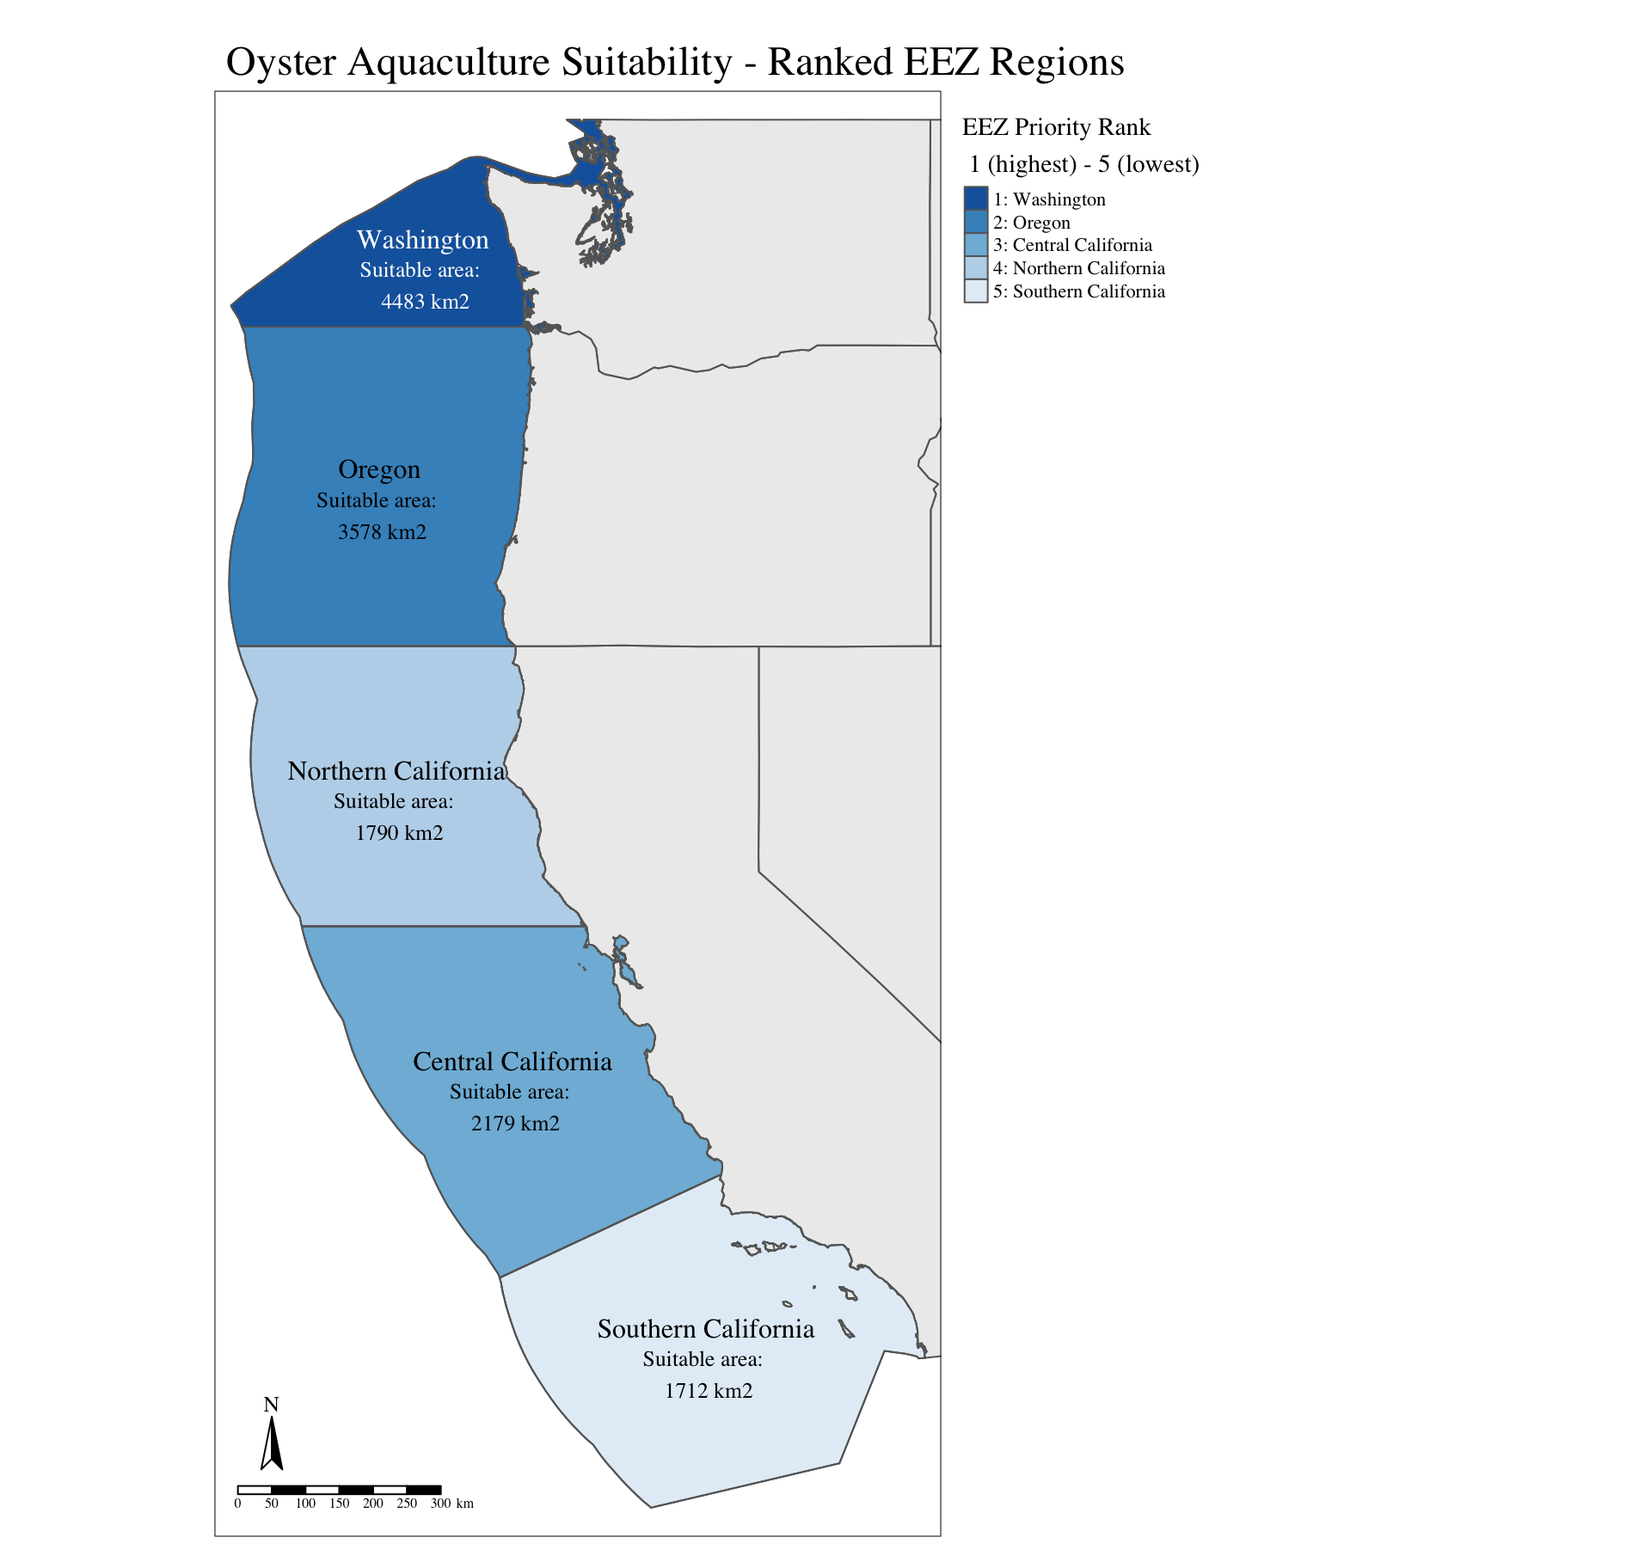
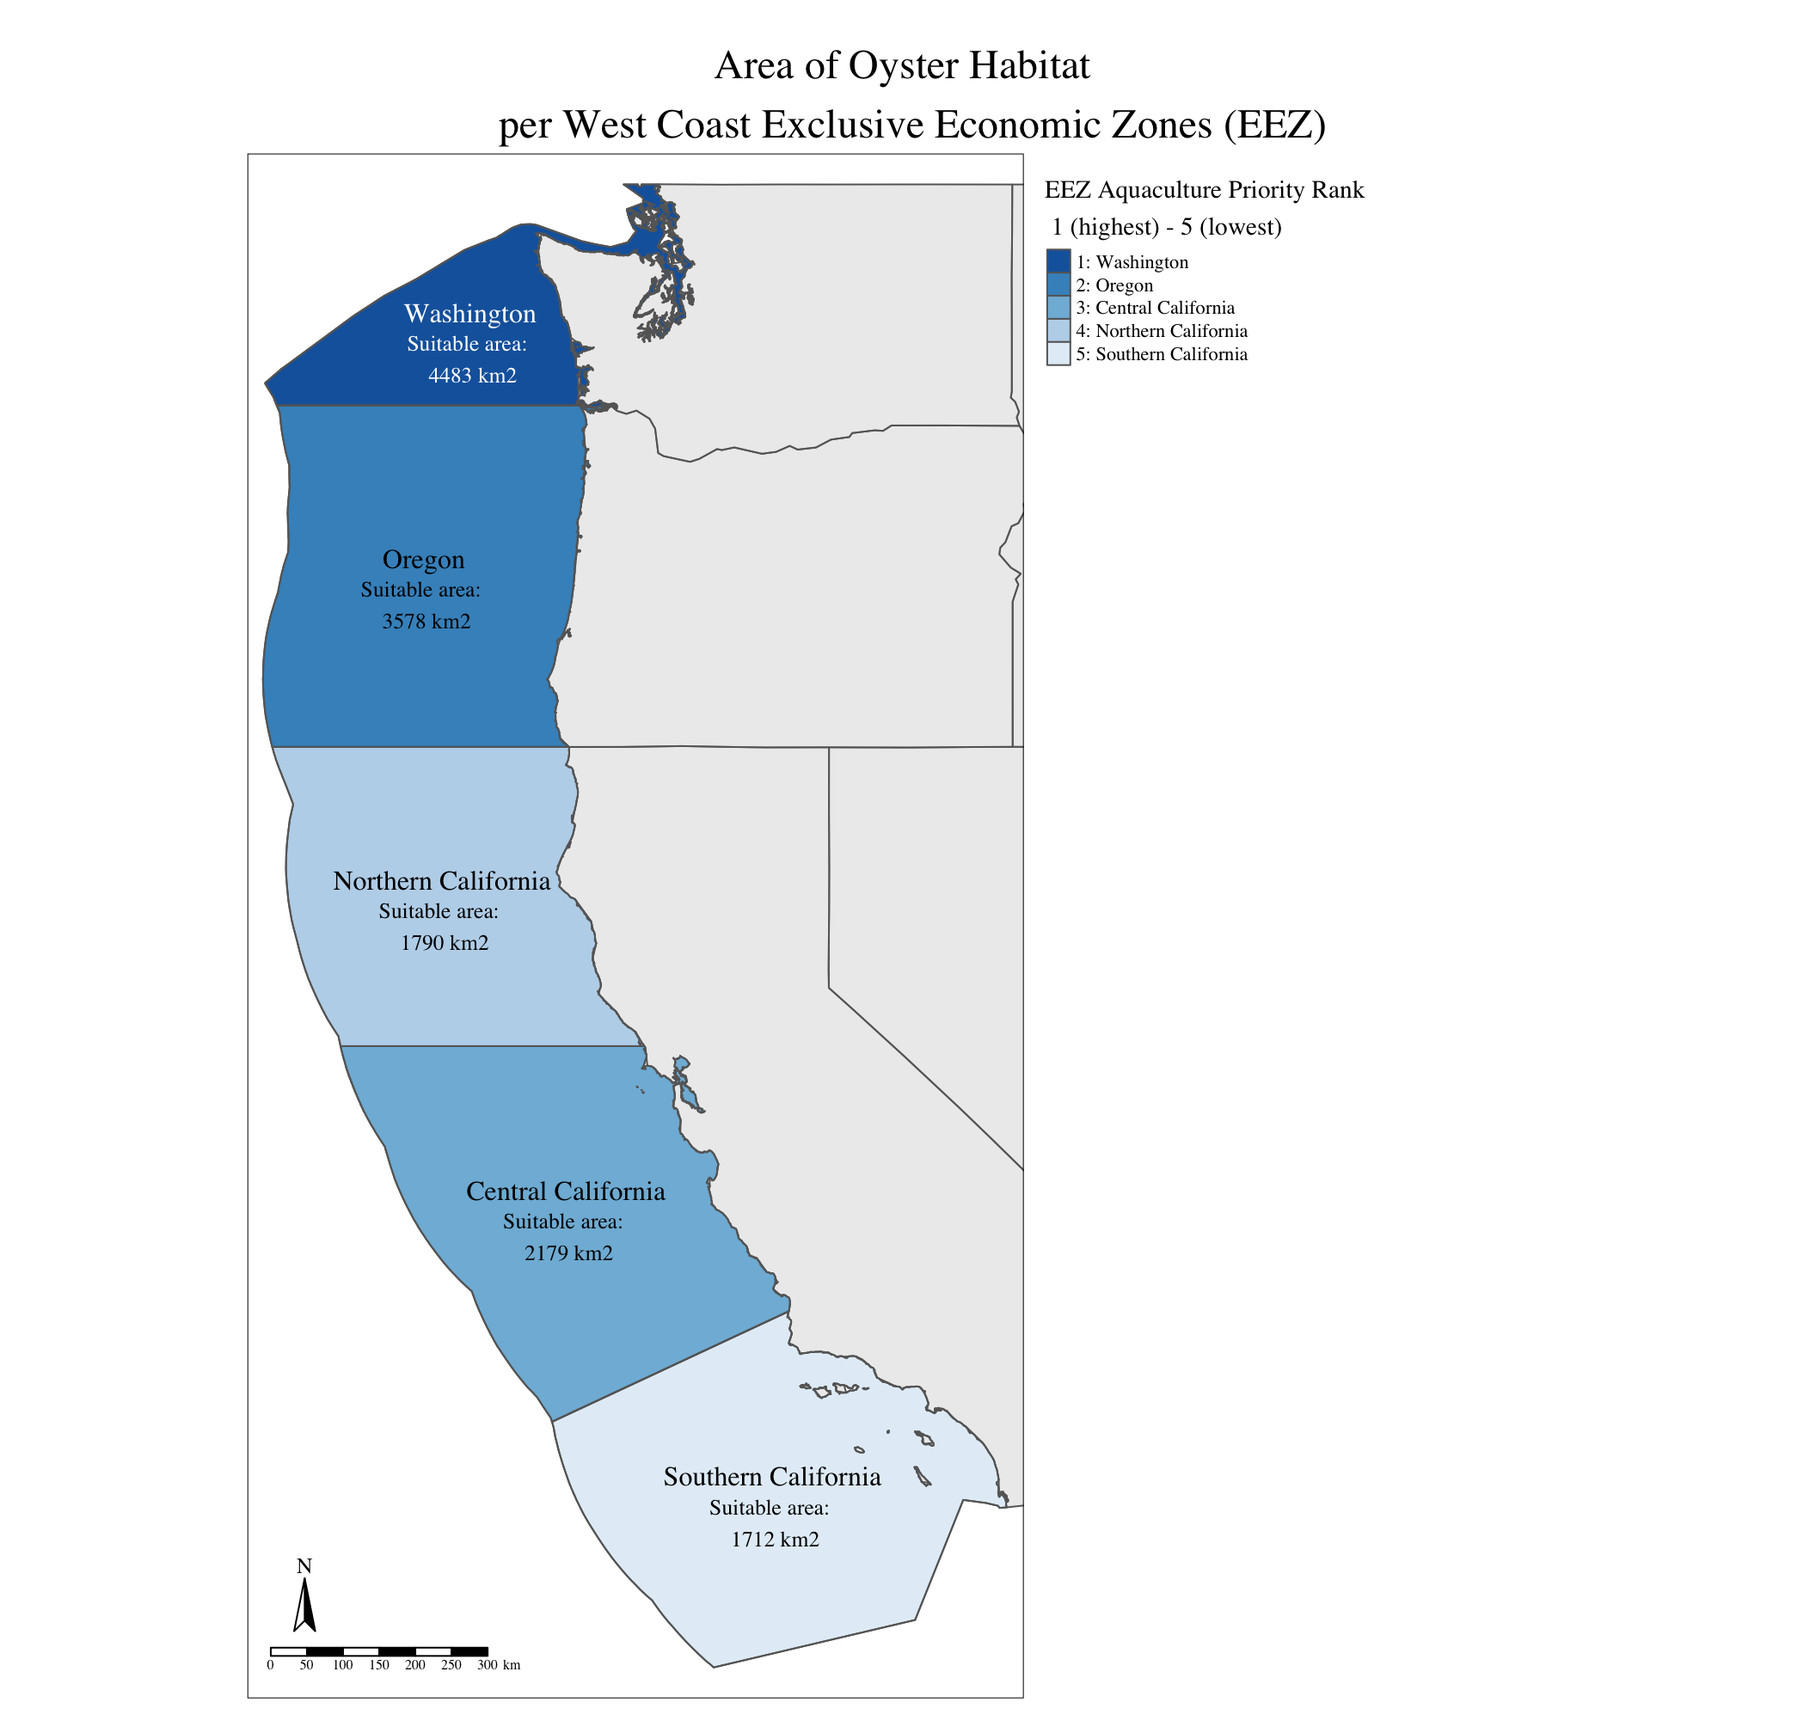
Update figure titles and interpretation secction.

diff --git a/HW4.html b/HW4.html
@@ -7,7 +7,7 @@
 <meta name="viewport" content="width=device-width, initial-scale=1.0, user-scalable=yes">
 
 <meta name="author" content="Marina Kochuten">
-<meta name="dcterms.date" content="2024-11-26">
+<meta name="dcterms.date" content="2024-11-29">
 
 <title>Prioritizing potential aquaculture</title>
 <style>
@@ -115,7 +115,7 @@ pre > code.sourceCode > span > a:first-child::before { text-decoration: underlin
     <div>
     <div class="quarto-title-meta-heading">Published</div>
     <div class="quarto-title-meta-contents">
-      <p class="date">November 26, 2024</p>
+      <p class="date">November 29, 2024</p>
     </div>
   </div>
   
@@ -358,7 +358,7 @@ pre > code.sourceCode > span > a:first-child::before { text-decoration: underlin
 <span id="cb7-4"><a href="#cb7-4" aria-hidden="true" tabindex="-1"></a>  <span class="fu">tm_shape</span>(eez_oyster_area_vect) <span class="sc">+</span>   <span class="co"># Ranked EEZs</span></span>
 <span id="cb7-5"><a href="#cb7-5" aria-hidden="true" tabindex="-1"></a>  <span class="fu">tm_polygons</span>(<span class="at">col =</span> <span class="st">"rank"</span>,</span>
 <span id="cb7-6"><a href="#cb7-6" aria-hidden="true" tabindex="-1"></a>              <span class="at">palette =</span> <span class="st">"-Blues"</span>,</span>
-<span id="cb7-7"><a href="#cb7-7" aria-hidden="true" tabindex="-1"></a>              <span class="at">title =</span> <span class="st">"EEZ Priority Rank </span><span class="sc">\n</span><span class="st"> 1 (highest) - 5 (lowest)"</span>) <span class="sc">+</span></span>
+<span id="cb7-7"><a href="#cb7-7" aria-hidden="true" tabindex="-1"></a>              <span class="at">title =</span> <span class="st">"EEZ Aquaculture Priority Rank </span><span class="sc">\n</span><span class="st"> 1 (highest) - 5 (lowest)"</span>) <span class="sc">+</span></span>
 <span id="cb7-8"><a href="#cb7-8" aria-hidden="true" tabindex="-1"></a>  <span class="fu">tm_text</span>(<span class="st">"rgn"</span>, <span class="at">fontface =</span> <span class="st">"bold"</span>, <span class="at">ymod =</span> <span class="fl">0.5</span>) <span class="sc">+</span>   <span class="co"># EEZ region annotation                               </span></span>
 <span id="cb7-9"><a href="#cb7-9" aria-hidden="true" tabindex="-1"></a>  <span class="fu">tm_shape</span>(eez_oyster_area_vect) <span class="sc">+</span>   <span class="co"># Add again so I can have two text annotations</span></span>
 <span id="cb7-10"><a href="#cb7-10" aria-hidden="true" tabindex="-1"></a>    <span class="fu">tm_polygons</span>(<span class="at">col =</span> <span class="st">"rank"</span>,</span>
@@ -366,18 +366,19 @@ pre > code.sourceCode > span > a:first-child::before { text-decoration: underlin
 <span id="cb7-12"><a href="#cb7-12" aria-hidden="true" tabindex="-1"></a>              <span class="at">alpha =</span> <span class="dv">0</span>,</span>
 <span id="cb7-13"><a href="#cb7-13" aria-hidden="true" tabindex="-1"></a>              <span class="at">legend.show =</span> <span class="cn">FALSE</span>) <span class="sc">+</span></span>
 <span id="cb7-14"><a href="#cb7-14" aria-hidden="true" tabindex="-1"></a>  <span class="fu">tm_text</span>(<span class="st">"suitable_area_label"</span>, <span class="at">size =</span> <span class="fl">0.8</span>, <span class="at">ymod =</span> <span class="sc">-</span><span class="fl">0.9</span>) <span class="sc">+</span>   <span class="co"># Suitable area annotation</span></span>
-<span id="cb7-15"><a href="#cb7-15" aria-hidden="true" tabindex="-1"></a>  <span class="fu">tm_layout</span>(<span class="at">main.title =</span> <span class="st">"Oyster Aquaculture Suitability - Ranked EEZ Regions"</span>,</span>
-<span id="cb7-16"><a href="#cb7-16" aria-hidden="true" tabindex="-1"></a>            <span class="at">legend.outside =</span> <span class="cn">TRUE</span>,</span>
-<span id="cb7-17"><a href="#cb7-17" aria-hidden="true" tabindex="-1"></a>            <span class="at">bg.color =</span> <span class="st">"grey100"</span>,</span>
-<span id="cb7-18"><a href="#cb7-18" aria-hidden="true" tabindex="-1"></a>            <span class="at">fontfamily =</span> <span class="st">"Times"</span>,</span>
-<span id="cb7-19"><a href="#cb7-19" aria-hidden="true" tabindex="-1"></a>            <span class="at">title.position =</span> <span class="fu">c</span>(<span class="st">'center'</span>, <span class="st">'center'</span>)) <span class="sc">+</span></span>
-<span id="cb7-20"><a href="#cb7-20" aria-hidden="true" tabindex="-1"></a>  <span class="fu">tm_compass</span>(<span class="at">position =</span> (<span class="fu">c</span>(<span class="st">"left"</span>, <span class="st">"bottom"</span>))) <span class="sc">+</span></span>
-<span id="cb7-21"><a href="#cb7-21" aria-hidden="true" tabindex="-1"></a>  <span class="fu">tm_scale_bar</span>(<span class="at">position =</span> (<span class="fu">c</span>(<span class="st">"left"</span>, <span class="st">"bottom"</span>)))</span></code><button title="Copy to Clipboard" class="code-copy-button"><i class="bi"></i></button></pre></div>
+<span id="cb7-15"><a href="#cb7-15" aria-hidden="true" tabindex="-1"></a>  <span class="fu">tm_layout</span>(<span class="at">main.title =</span> <span class="st">"Area of Oyster Habitat </span><span class="sc">\n</span><span class="st"> per West Coast Exclusive Economic Zones (EEZ)"</span>,</span>
+<span id="cb7-16"><a href="#cb7-16" aria-hidden="true" tabindex="-1"></a>            <span class="at">main.title.position =</span> <span class="fu">c</span>(<span class="st">"center"</span>, <span class="st">"top"</span>),</span>
+<span id="cb7-17"><a href="#cb7-17" aria-hidden="true" tabindex="-1"></a>            <span class="at">legend.outside =</span> <span class="cn">TRUE</span>,</span>
+<span id="cb7-18"><a href="#cb7-18" aria-hidden="true" tabindex="-1"></a>            <span class="at">bg.color =</span> <span class="st">"grey100"</span>,</span>
+<span id="cb7-19"><a href="#cb7-19" aria-hidden="true" tabindex="-1"></a>            <span class="at">fontfamily =</span> <span class="st">"Times"</span>,</span>
+<span id="cb7-20"><a href="#cb7-20" aria-hidden="true" tabindex="-1"></a>            <span class="at">title.position =</span> <span class="fu">c</span>(<span class="st">'center'</span>, <span class="st">'center'</span>)) <span class="sc">+</span></span>
+<span id="cb7-21"><a href="#cb7-21" aria-hidden="true" tabindex="-1"></a>  <span class="fu">tm_compass</span>(<span class="at">position =</span> (<span class="fu">c</span>(<span class="st">"left"</span>, <span class="st">"bottom"</span>))) <span class="sc">+</span></span>
+<span id="cb7-22"><a href="#cb7-22" aria-hidden="true" tabindex="-1"></a>  <span class="fu">tm_scale_bar</span>(<span class="at">position =</span> (<span class="fu">c</span>(<span class="st">"left"</span>, <span class="st">"bottom"</span>)))</span></code><button title="Copy to Clipboard" class="code-copy-button"><i class="bi"></i></button></pre></div>
 </details>
 <div class="cell-output-display">
 <div>
 <figure class="figure">
-<p><img src="HW4_files/figure-html/unnamed-chunk-7-1.png" class="img-fluid figure-img" width="960"></p>
+<p><img src="HW4_files/figure-html/unnamed-chunk-7-1.png" class="img-fluid figure-img" width="1056"></p>
 </figure>
 </div>
 </div>
@@ -418,7 +419,7 @@ pre > code.sourceCode > span > a:first-child::before { text-decoration: underlin
 <span id="cb8-27"><a href="#cb8-27" aria-hidden="true" tabindex="-1"></a>  </span>
 <span id="cb8-28"><a href="#cb8-28" aria-hidden="true" tabindex="-1"></a>  rcl_depth <span class="ot">&lt;-</span> <span class="fu">matrix</span>(<span class="fu">c</span>(<span class="sc">-</span><span class="cn">Inf</span>, <span class="sc">-</span>max_depth, <span class="dv">0</span>,         <span class="co"># unsuitable</span></span>
 <span id="cb8-29"><a href="#cb8-29" aria-hidden="true" tabindex="-1"></a>                        <span class="sc">-</span>max_depth, min_depth, <span class="dv">1</span>,    <span class="co"># suitable</span></span>
-<span id="cb8-30"><a href="#cb8-30" aria-hidden="true" tabindex="-1"></a>                        <span class="dv">0</span>, <span class="cn">Inf</span>, <span class="dv">0</span>),                  <span class="co"># unsuitable</span></span>
+<span id="cb8-30"><a href="#cb8-30" aria-hidden="true" tabindex="-1"></a>                        min_depth, <span class="cn">Inf</span>, <span class="dv">0</span>),                  <span class="co"># unsuitable</span></span>
 <span id="cb8-31"><a href="#cb8-31" aria-hidden="true" tabindex="-1"></a>                      <span class="at">ncol =</span> <span class="dv">3</span>, <span class="at">byrow =</span> <span class="cn">TRUE</span>)</span>
 <span id="cb8-32"><a href="#cb8-32" aria-hidden="true" tabindex="-1"></a>  </span>
 <span id="cb8-33"><a href="#cb8-33" aria-hidden="true" tabindex="-1"></a>  depth_reclass <span class="ot">&lt;-</span> <span class="fu">classify</span>(depth, <span class="at">rcl =</span> rcl_depth)</span>
@@ -455,7 +456,7 @@ pre > code.sourceCode > span > a:first-child::before { text-decoration: underlin
 <span id="cb8-64"><a href="#cb8-64" aria-hidden="true" tabindex="-1"></a>    <span class="fu">tm_shape</span>(eez_area_vect) <span class="sc">+</span>   <span class="co"># Ranked EEZs</span></span>
 <span id="cb8-65"><a href="#cb8-65" aria-hidden="true" tabindex="-1"></a>    <span class="fu">tm_polygons</span>(<span class="at">col =</span> <span class="st">"rank"</span>,</span>
 <span id="cb8-66"><a href="#cb8-66" aria-hidden="true" tabindex="-1"></a>                <span class="at">palette =</span> <span class="st">"-Blues"</span>,</span>
-<span id="cb8-67"><a href="#cb8-67" aria-hidden="true" tabindex="-1"></a>                <span class="at">title =</span> <span class="st">"EEZ Priority Rank </span><span class="sc">\n</span><span class="st"> 1 (highest) - 5 (lowest)"</span>) <span class="sc">+</span></span>
+<span id="cb8-67"><a href="#cb8-67" aria-hidden="true" tabindex="-1"></a>                <span class="at">title =</span> <span class="st">"EEZ Aquaculture Priority Rank </span><span class="sc">\n</span><span class="st"> 1 (highest) - 5 (lowest)"</span>) <span class="sc">+</span></span>
 <span id="cb8-68"><a href="#cb8-68" aria-hidden="true" tabindex="-1"></a>    <span class="fu">tm_text</span>(<span class="st">"rgn"</span>, <span class="at">fontface =</span> <span class="st">"bold"</span>, <span class="at">ymod =</span> <span class="fl">0.5</span>) <span class="sc">+</span>   <span class="co"># EEZ region annotation                         </span></span>
 <span id="cb8-69"><a href="#cb8-69" aria-hidden="true" tabindex="-1"></a>    <span class="fu">tm_shape</span>(eez_area_vect) <span class="sc">+</span>   <span class="co"># Add again so I can have two text annotations</span></span>
 <span id="cb8-70"><a href="#cb8-70" aria-hidden="true" tabindex="-1"></a>    <span class="fu">tm_polygons</span>(<span class="at">col =</span> <span class="st">"rank"</span>,</span>
@@ -463,14 +464,15 @@ pre > code.sourceCode > span > a:first-child::before { text-decoration: underlin
 <span id="cb8-72"><a href="#cb8-72" aria-hidden="true" tabindex="-1"></a>                <span class="at">alpha =</span> <span class="dv">0</span>,</span>
 <span id="cb8-73"><a href="#cb8-73" aria-hidden="true" tabindex="-1"></a>                <span class="at">legend.show =</span> <span class="cn">FALSE</span>) <span class="sc">+</span></span>
 <span id="cb8-74"><a href="#cb8-74" aria-hidden="true" tabindex="-1"></a>    <span class="fu">tm_text</span>(<span class="st">"suitable_area_label"</span>, <span class="at">size =</span> <span class="fl">0.8</span>, <span class="at">ymod =</span> <span class="sc">-</span><span class="fl">0.7</span>) <span class="sc">+</span>   <span class="co"># Suitable area annotation</span></span>
-<span id="cb8-75"><a href="#cb8-75" aria-hidden="true" tabindex="-1"></a>    <span class="fu">tm_layout</span>(<span class="at">main.title =</span> <span class="fu">paste</span>(species, <span class="st">"Aquaculture Suitability - Ranked EEZ Regions"</span>),</span>
-<span id="cb8-76"><a href="#cb8-76" aria-hidden="true" tabindex="-1"></a>              <span class="at">legend.outside =</span> <span class="cn">TRUE</span>,</span>
-<span id="cb8-77"><a href="#cb8-77" aria-hidden="true" tabindex="-1"></a>              <span class="at">bg.color =</span> <span class="st">"grey100"</span>,</span>
-<span id="cb8-78"><a href="#cb8-78" aria-hidden="true" tabindex="-1"></a>              <span class="at">fontfamily =</span> <span class="st">"Times"</span>,</span>
-<span id="cb8-79"><a href="#cb8-79" aria-hidden="true" tabindex="-1"></a>              <span class="at">title.position =</span> <span class="fu">c</span>(<span class="st">'center'</span>, <span class="st">'center'</span>)) <span class="sc">+</span></span>
-<span id="cb8-80"><a href="#cb8-80" aria-hidden="true" tabindex="-1"></a>    <span class="fu">tm_compass</span>(<span class="at">position =</span> (<span class="fu">c</span>(<span class="st">"left"</span>, <span class="st">"bottom"</span>))) <span class="sc">+</span></span>
-<span id="cb8-81"><a href="#cb8-81" aria-hidden="true" tabindex="-1"></a>    <span class="fu">tm_scale_bar</span>(<span class="at">position =</span> (<span class="fu">c</span>(<span class="st">"left"</span>, <span class="st">"bottom"</span>)))</span>
-<span id="cb8-82"><a href="#cb8-82" aria-hidden="true" tabindex="-1"></a>}</span></code><button title="Copy to Clipboard" class="code-copy-button"><i class="bi"></i></button></pre></div>
+<span id="cb8-75"><a href="#cb8-75" aria-hidden="true" tabindex="-1"></a>    <span class="fu">tm_layout</span>(<span class="at">main.title =</span> <span class="fu">paste</span>(<span class="st">"Area of"</span>, species, <span class="st">"Habitat </span><span class="sc">\n</span><span class="st"> per West Coast Exclusive Economic Zones (EEZ)"</span>),</span>
+<span id="cb8-76"><a href="#cb8-76" aria-hidden="true" tabindex="-1"></a>              <span class="at">main.title.position =</span> <span class="fu">c</span>(<span class="st">"center"</span>, <span class="st">"top"</span>),</span>
+<span id="cb8-77"><a href="#cb8-77" aria-hidden="true" tabindex="-1"></a>              <span class="at">legend.outside =</span> <span class="cn">TRUE</span>,</span>
+<span id="cb8-78"><a href="#cb8-78" aria-hidden="true" tabindex="-1"></a>              <span class="at">bg.color =</span> <span class="st">"grey100"</span>,</span>
+<span id="cb8-79"><a href="#cb8-79" aria-hidden="true" tabindex="-1"></a>              <span class="at">fontfamily =</span> <span class="st">"Times"</span>,</span>
+<span id="cb8-80"><a href="#cb8-80" aria-hidden="true" tabindex="-1"></a>              <span class="at">title.position =</span> <span class="fu">c</span>(<span class="st">'center'</span>, <span class="st">'center'</span>)) <span class="sc">+</span></span>
+<span id="cb8-81"><a href="#cb8-81" aria-hidden="true" tabindex="-1"></a>    <span class="fu">tm_compass</span>(<span class="at">position =</span> (<span class="fu">c</span>(<span class="st">"left"</span>, <span class="st">"bottom"</span>))) <span class="sc">+</span></span>
+<span id="cb8-82"><a href="#cb8-82" aria-hidden="true" tabindex="-1"></a>    <span class="fu">tm_scale_bar</span>(<span class="at">position =</span> (<span class="fu">c</span>(<span class="st">"left"</span>, <span class="st">"bottom"</span>)))</span>
+<span id="cb8-83"><a href="#cb8-83" aria-hidden="true" tabindex="-1"></a>}</span></code><button title="Copy to Clipboard" class="code-copy-button"><i class="bi"></i></button></pre></div>
 </details>
 </div>
 <p>To use my function, <code>suitable_eez_func()</code>, provide the arguments:</p>
@@ -495,7 +497,7 @@ pre > code.sourceCode > span > a:first-child::before { text-decoration: underlin
 <div class="cell-output-display">
 <div>
 <figure class="figure">
-<p><img src="HW4_files/figure-html/unnamed-chunk-9-1.png" class="img-fluid figure-img" width="960"></p>
+<p><img src="HW4_files/figure-html/unnamed-chunk-9-1.png" class="img-fluid figure-img" width="1056"></p>
 </figure>
 </div>
 </div>
@@ -508,8 +510,8 @@ pre > code.sourceCode > span > a:first-child::before { text-decoration: underlin
 <h4 class="anchored" data-anchor-id="limitations">Limitations</h4>
 <ul>
 <li>Suitable areas are an approximation over entire cells within the rasters. If the areas suitable for a particular species cuts through a cell, that entire cell is considered in the total area.</li>
-<li>Other conditions that may effect suitability for marine aquaculture other than sea surface temperature and depth are not considered in this analysis.</li>
-<li>The data I used to calculate sea surface temperature is from 2008-2012. With rising sea temperatures, it is very possible that the average sea surface temperature today is different than the one used in this analysis. It would be important to consider newer sst data in further analysis.</li>
+<li>Other conditions that may effect suitability for marine aquaculture other than sea surface temperature and depth are not considered in calculating total area suitable for each species.</li>
+<li>The data I used to calculate sea surface temperature is from 2008-2012. With rising sea temperatures, it is very possible that the average sea surface temperature today is different than the one used in this analysis. It would be important to consider more recent SST data in further consideration of this analysis.</li>
 </ul>
 </section>
 </section>
